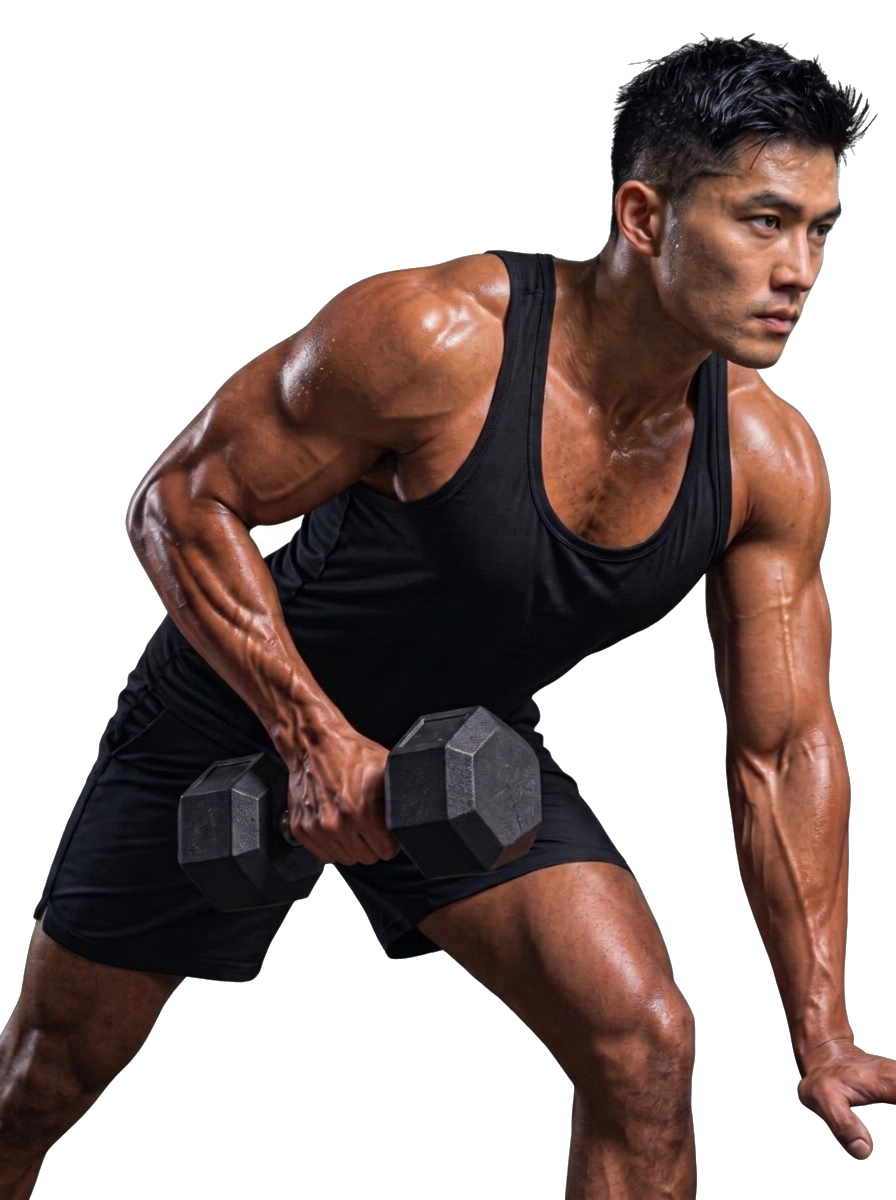
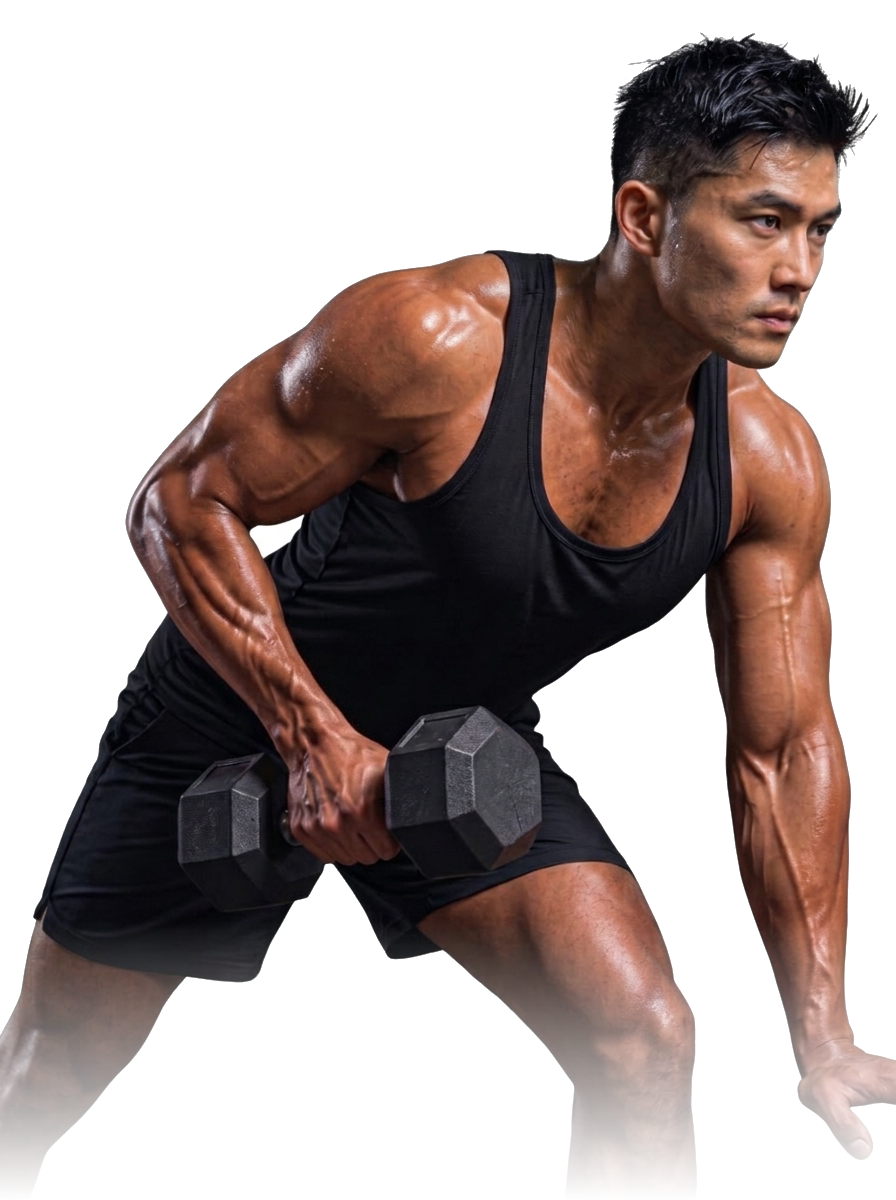
style: lower hero athlete image position to thigh level and feather bottom crop

Changed region(s): [[0.4375, 0.7708, 0.7812, 1.0], [0.0, 0.7708, 0.3125, 1.0], [0.8438, 0.7708, 1.0, 0.9867]]

diff --git a/frontend/src/components/Hero.jsx b/frontend/src/components/Hero.jsx
@@ -27,12 +27,12 @@ export default function Hero({ onOpenJoinModal, onOpenConsultModal }) {
       {/* Radial backlight glow behind athlete */}
       <div className="absolute bottom-16 left-1/2 -translate-x-[40%] w-[550px] h-[550px] bg-red-600/25 blur-[140px] pointer-events-none rounded-full" />
 
-      {/* 2. Athlete Cutout - Positioned exactly as reference: Anchored to bottom, large center-right */}
-      <div className="absolute bottom-0 left-1/2 -translate-x-[42%] lg:left-[51%] lg:-translate-x-[36%] xl:left-[51%] xl:-translate-x-[34%] h-[75%] sm:h-[84%] md:h-[90%] lg:h-[95%] xl:h-[98%] max-h-[820px] z-10 flex items-end justify-center pointer-events-none">
+      {/* 2. Athlete Cutout - Lowered to thigh level to cleanly hide uneven bottom crop */}
+      <div className="absolute -bottom-16 sm:-bottom-24 md:-bottom-32 lg:-bottom-44 xl:-bottom-52 left-1/2 -translate-x-[42%] lg:left-[51%] lg:-translate-x-[36%] xl:left-[51%] xl:-translate-x-[34%] z-10 flex justify-center pointer-events-none">
         <img 
           src={heroAthleteTransparent} 
           alt="COREX Athlete Performing Heavy Dumbbell Row" 
-          className="h-full w-auto max-w-none object-contain object-bottom drop-shadow-[0_20px_45px_rgba(0,0,0,0.85)] filter contrast-[1.04] brightness-100 select-none pointer-events-none transition-transform duration-700 ease-out hover:scale-[1.02]"
+          className="h-[620px] sm:h-[720px] md:h-[820px] lg:h-[940px] xl:h-[1020px] w-auto max-w-none object-contain select-none pointer-events-none drop-shadow-[0_20px_45px_rgba(0,0,0,0.85)] filter contrast-[1.04] brightness-100 transition-transform duration-700 ease-out hover:scale-[1.02]"
         />
       </div>
 
